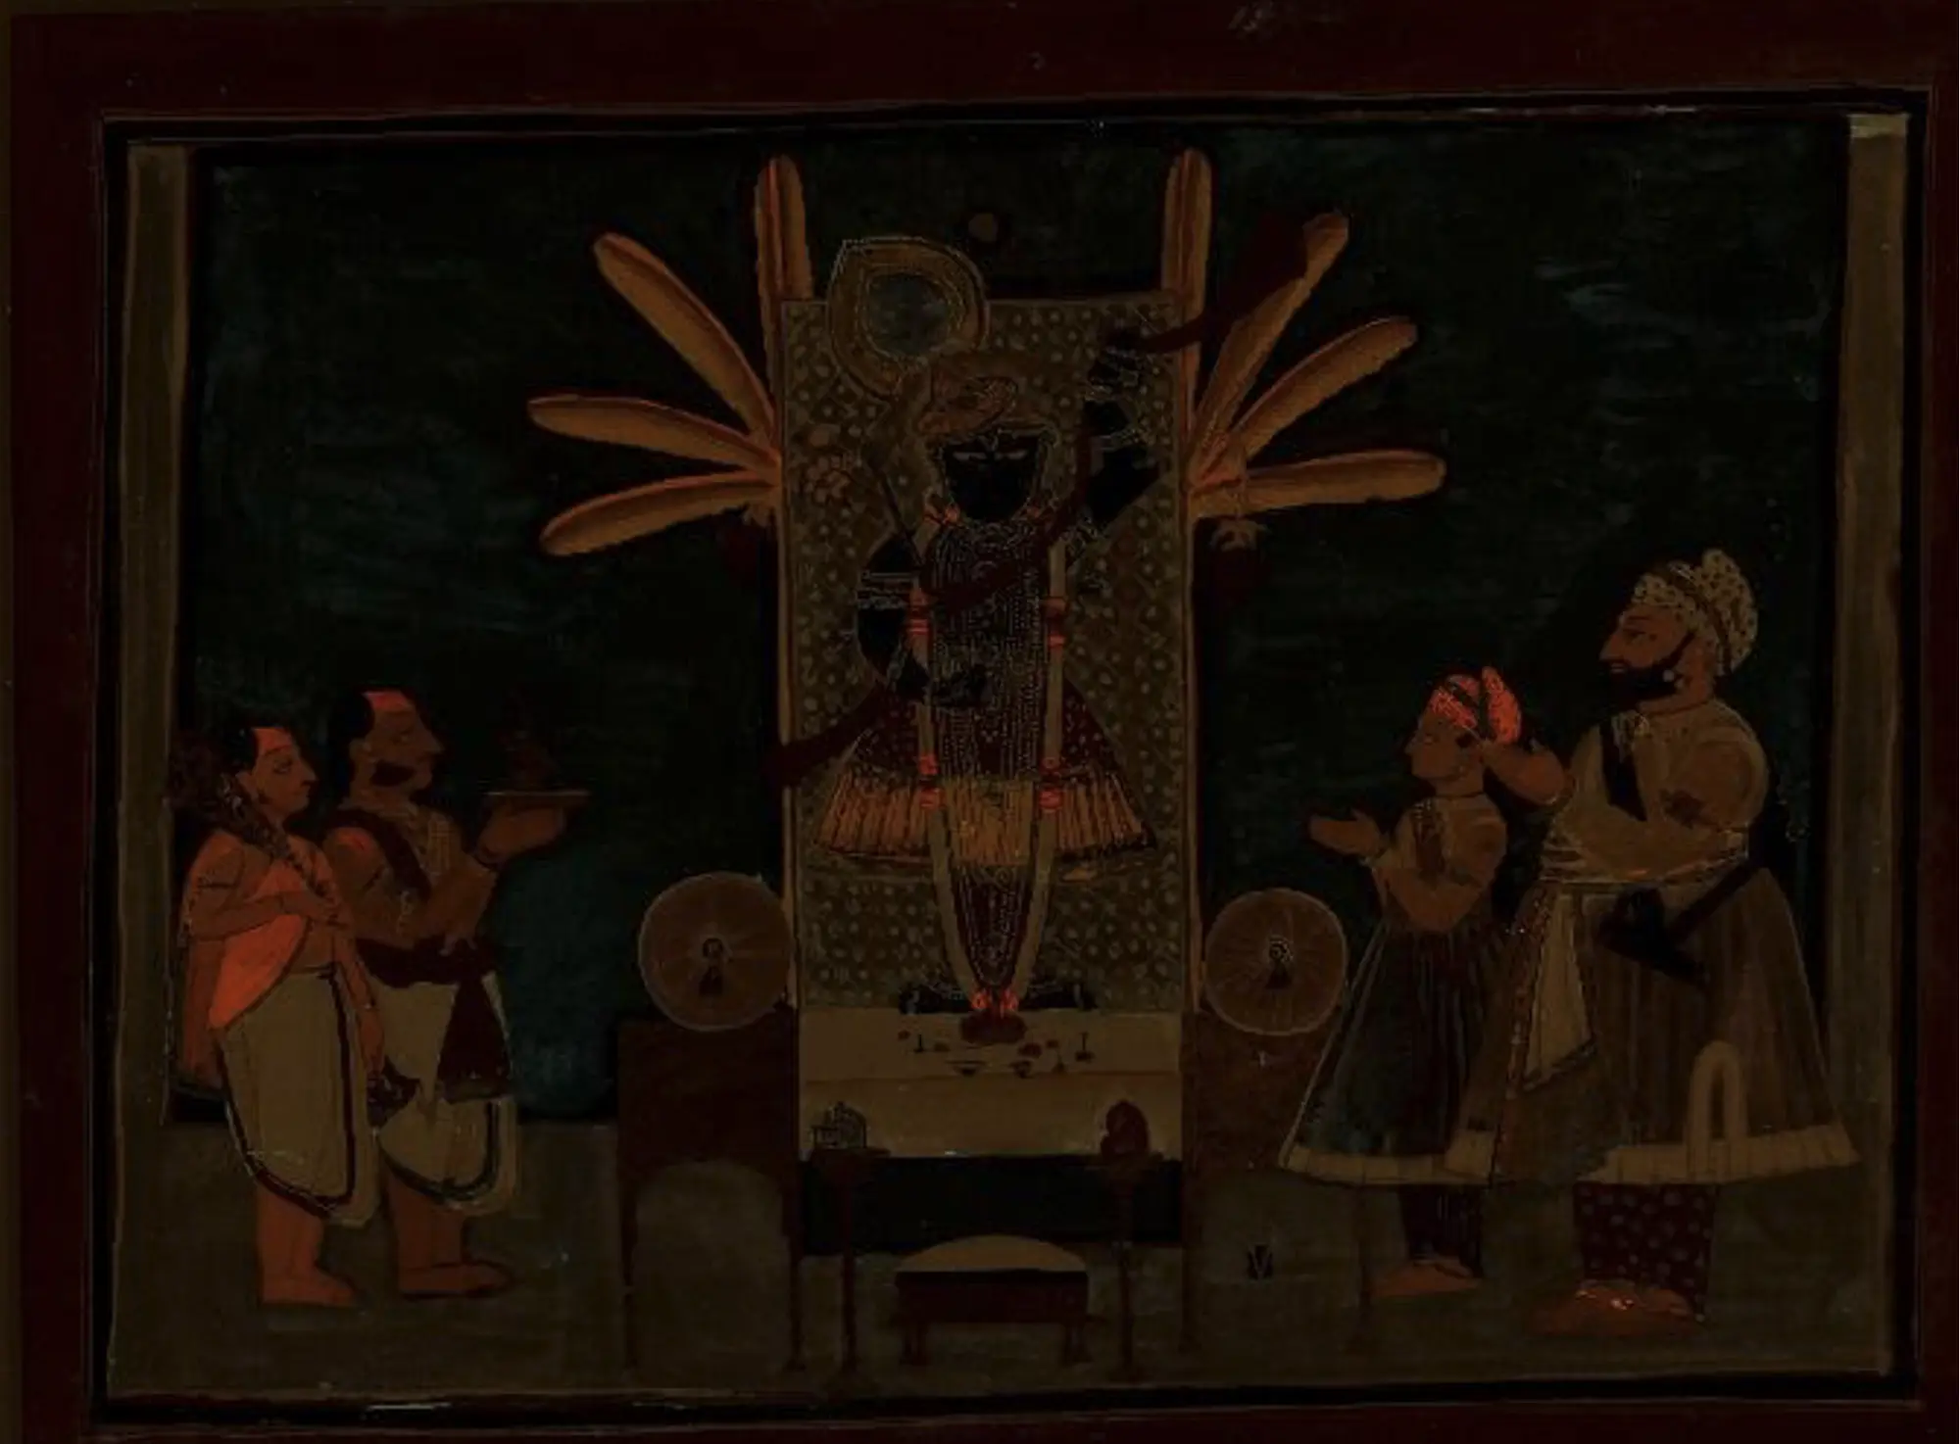
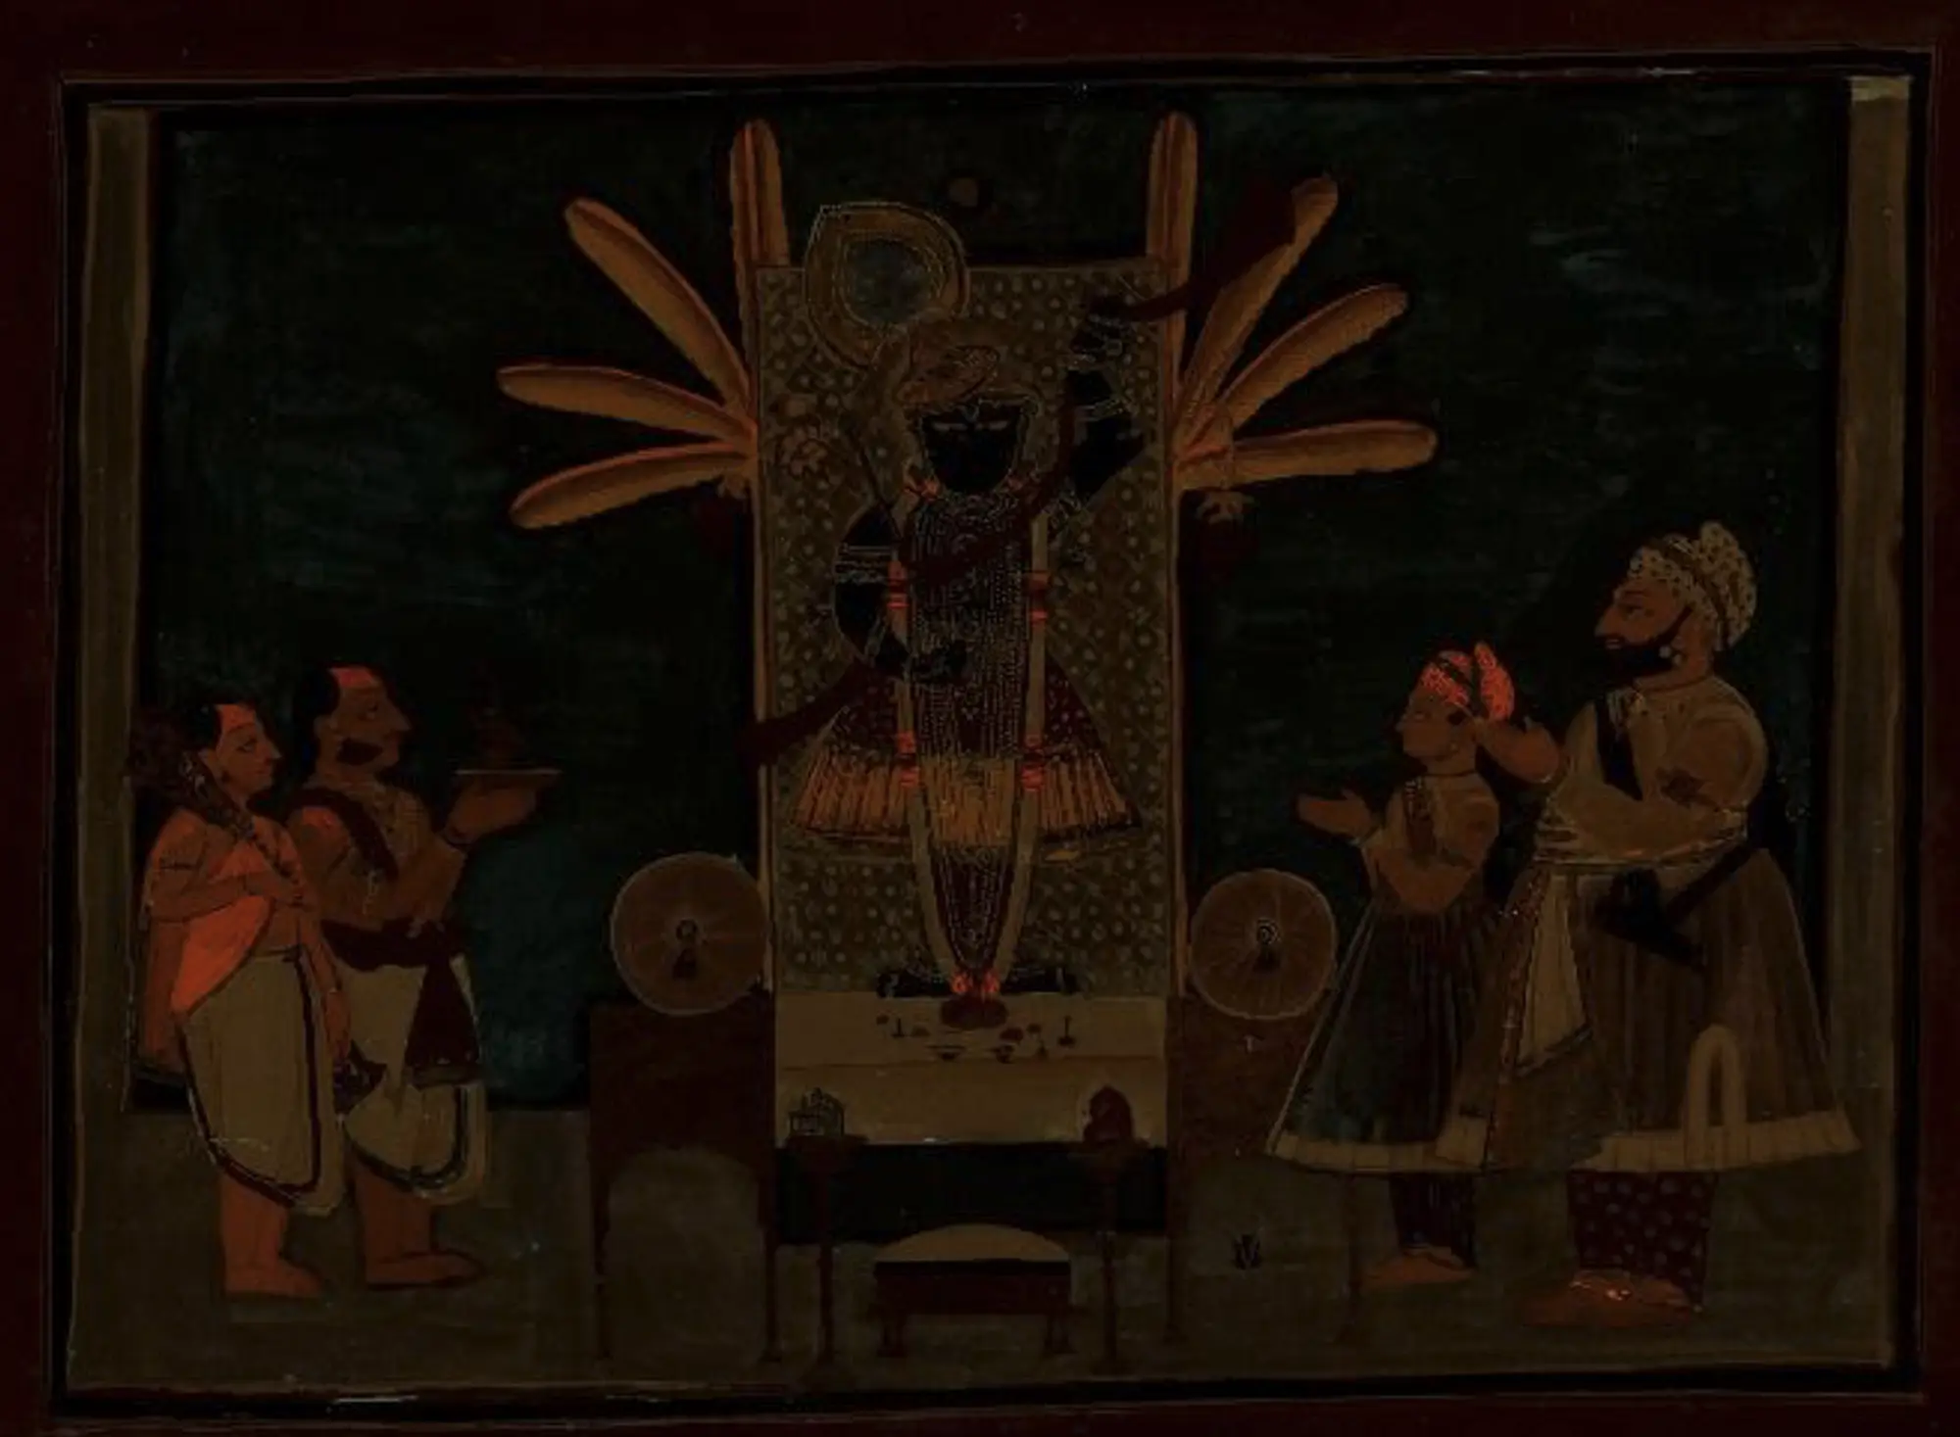
Chokha painting updates

diff --git a/src/pages/Museum/MuseumChokhaPigmentsUVL.vue b/src/pages/Museum/MuseumChokhaPigmentsUVL.vue
@@ -3,30 +3,35 @@
     <template #challenge-tab>
       <ChallengeCard>
         <template #top>
-          <InstructionHeader>Chokha Pigments Part 3: UVL</InstructionHeader>
+          <InstructionHeader
+            >Chokha Pigments Part 3: UV-induced Luminescence</InstructionHeader
+          >
           <InstructionRow rowType="Investigate">
-            <p>
-              Now imagine you wanted to know the composition of other blue
-              regions of interest in the painting, but you don't have time to
-              take spectra everywhere.
-            </p>
-            <p>
-              Conservators have the option of photographing the entire image
-              using different filters, for example, red, green, or blue, or even
-              infrared filters.
-            </p>
-            <p>
-              Based on the differences in the spectra of the two blue pigments
-              you observed, which filter would be most helpful for
-              distinguishing which of the two blue pigments were used in other
-              parts of the painting?
-            </p>
+            <template #steps>
+              <InstructionStep>
+                Use the
+                <span style="font-weight: 600">No filter/UVL</span> buttons to
+                toggle between the visible light image and an image showing
+                UV-induced luminescence (UVL) from pigments in the painting.
+              </InstructionStep>
+              <InstructionStep>
+                Identify a region of interest from Table 1 that is glowing in
+                the UVL image.
+              </InstructionStep>
+              <InstructionStep>
+                Use this
+                <BLink
+                  href="https://docs.google.com/document/d/12tWtxQ2-CibGcFYxlEbWjwgogqQr0MFKGtHnW1s0N7Y/edit?usp=sharing"
+                  target="_blank"
+                  rel="noopener"
+                  >data table</BLink
+                >
+                to identify a pigment of this color that creates UVL.
+              </InstructionStep>
+            </template>
           </InstructionRow>
           <InstructionRow rowType="Notebook">
-            <span class="needs-updating">
-              Write notebook questions - multiple choice - 440 (blue) and 905
-              (IR)
-            </span>
+            Use the information to complete the table in your notebook.
           </InstructionRow>
           <div class="mb-3">
             <BFormRadioGroup
@@ -43,30 +48,14 @@
           <img :src="imageUrl" class="d-block mb-2 challenge-image" />
         </template>
       </ChallengeCard>
-    </template>
-    <template #tool-col>
-      <ToolControlGroup :control-names="['units', 'plotType', 'normalize']">
-        <template #top-tool>
-          <ToolCard
-            :custom-metadata="customMetadata"
-            spectrum-picker-placeholder="Select Chokha ROI"
-          />
-        </template>
-        <template #bottom-tool>
-          <ToolCard
-            :custom-metadata="pigments"
-            spectrum-picker-placeholder="Select pigment"
-          />
-        </template>
-      </ToolControlGroup>
       <LeftRightGroup class="mt-5">
         <template #left>
-          <NextPrevButton to="uvl-intro" direction="prev" light>
+          <NextPrevButton to="uvl-intro" direction="prev" dark>
             part 2
           </NextPrevButton>
         </template>
         <template #right>
-          <NextPrevButton to="data-table" direction="next" light>
+          <NextPrevButton to="data-table" direction="next" dark>
             part 4
           </NextPrevButton>
         </template>
@@ -77,11 +66,10 @@
 
 <script setup lang="ts">
 import { useSpecLabHead } from '@/utils/locationUtils';
-import { useAllMetadata, useCustomMetadata } from '@/utils/metadataUtils';
+
 import { computed, ref } from 'vue';
-import chokhaChallenge from '@/assets/spectrum_data/Museum_Conservation/chokha_mystery_labels_910.webp';
+import chokhaChallenge from '@/assets/spectrum_data/Museum_Conservation/chokha_painting_labels_910.webp';
 import chokhaUVL from '@/assets/spectrum_data/Museum_Conservation/chokha_uvl_2000.webp';
-import mystery from '@/assets/spectrum_data/mystery@2x.png';
 
 useSpecLabHead('Chokha Pigments Part 3: UVL', 'Museum');
 
@@ -102,47 +90,6 @@ const imageUrl = computed(() => {
       return '';
   }
 });
-
-const chokhaR1 = useCustomMetadata(
-  'Painting Regions',
-  'S2018-1-76_VNIR-SWIR_colors_Red_1',
-  {
-    title: 'Mystery Pigment 1',
-    imageUrl: mystery,
-    bigImageUrl: '',
-  },
-);
-const chokhaB2 = useCustomMetadata(
-  'Painting Regions',
-  'S2018-1-76_VNIR-SWIR_colors_Blue_2',
-  {
-    title: 'Mystery Pigment 2',
-    imageUrl: mystery,
-    bigImageUrl: '',
-  },
-);
-const chokhaY1 = useCustomMetadata(
-  'Painting Regions',
-  'S2018-1-76_VNIR-SWIR_colors_Yellow_1',
-  {
-    title: 'Mystery Pigment 3',
-    imageUrl: mystery,
-    bigImageUrl: '',
-  },
-);
-const chokhaW1 = useCustomMetadata(
-  'Painting Regions',
-  'S2018-1-76_VNIR-SWIR_colors_White_1',
-  {
-    title: 'Mystery Pigment 4',
-    imageUrl: mystery,
-    bigImageUrl: '',
-  },
-);
-const customMetadataMaybe = [chokhaR1, chokhaB2, chokhaY1, chokhaW1];
-const customMetadata = customMetadataMaybe.filter((sm) => !!sm);
-const allMetadata = useAllMetadata();
-const pigments = allMetadata['Paint Pigments'];
 </script>
 
 <style>

diff --git a/src/pages/Museum/MuseumChokhaPigmentsSpectra.vue b/src/pages/Museum/MuseumChokhaPigmentsSpectra.vue
@@ -6,39 +6,33 @@
           <InstructionHeader>
             Chokha Pigments Part 1: Spectra
           </InstructionHeader>
-          <InstructionRow rowType="Art">
-            Art conservators have taken reflection spectra of different regions
-            of interest, marked by the white and black squares. The wavelengths
-            of light that are reflected by the paint in the visible part of the
-            spectrum determines what color our eyes see.
-          </InstructionRow>
           <InstructionRow rowType="Tool">
-            View each "mystery pigment" spectrum and see if you can identify
-            what color and region of interest it corresponds to in the painting.
+            Compare the spectra of some of the regions of interest (ROI) with
+            comparison pigments to see if you can identify them.
             <template #steps>
               <InstructionStep>
-                Use the
-                <span style="font-weight: 600">Select mystery pigment</span>
-                dropdown menu to view each spectrum.
+                Under <span style="font-weight: 600">Source 1</span>, use the
+                <span style="font-weight: 600">Select Chokha ROI</span>
+                dropdown menu to view a spectrum for each region of interest.
               </InstructionStep>
               <InstructionStep>
-                Under <span style="font-weight: 600">Normalize?</span>, click
-                <span style="font-weight: 600">Visible</span>.
-              </InstructionStep>
-              <InstructionStep>
-                Use what you learned about how light colors mix (Modules 1 & 3)
-                to identify what color corresponds to each spectrum.
+                Under <span style="font-weight: 600">Source 2</span>, use the
+                <span style="font-weight: 600">Select pigment</span> dropdown
+                menu to view a spectrum for different pigments of each color.
               </InstructionStep>
             </template>
           </InstructionRow>
           <InstructionRow rowType="Notebook">
-            Draw a line from each spectrum to the corresponding region of
-            interest on the painting.
-          </InstructionRow>
-          <InstructionRow rowType="Simulation">
-            If you'd like a refresher on how light colors mix, double-click the
-            "RGB Bulbs" to launch the
-            <span style="font-weight: 600">Color Mixing</span> simulation.
+            <template #steps>
+              <InstructionStep>
+                For each ROI, write the pigment names in your notebook table.
+              </InstructionStep>
+              <InstructionStep>
+                Some pigments may be easier to identify from their spectra than
+                others. Use the last column to note the ROIs where you have
+                confidence in your pigment identification
+              </InstructionStep>
+            </template>
           </InstructionRow>
         </template>
         <template #middle>
@@ -47,7 +41,9 @@
       </ChallengeCard>
     </template>
     <template #tool-col>
-      <ToolControlGroup :control-names="['units', 'plotType', 'normalize']">
+      <ToolControlGroup
+        :control-names="['units', 'plotType', 'normalize', 'zoom']"
+      >
         <template #top-tool>
           <ToolCard
             :custom-metadata="customMetadata"
@@ -79,27 +75,18 @@
 
 <script setup lang="ts">
 import { useAllMetadata, useCustomMetadata } from '@/utils/metadataUtils';
-import chokhaChallenge from '@/assets/spectrum_data/Museum_Conservation/chokha_mystery_labels_910.webp';
-import chokhaBig from '@/assets/spectrum_data/Museum_Conservation/chokha_mystery_labels_big.webp';
+import chokhaChallenge from '@/assets/spectrum_data/Museum_Conservation/chokha_painting_labels_910.webp';
+import chokhaBig from '@/assets/spectrum_data/Museum_Conservation/chokha_painting_labels_big.webp';
 import { useSpecLabHead } from '@/utils/locationUtils';
 import mystery from '@/assets/spectrum_data/mystery@2x.png';
 
 useSpecLabHead('Chokha Pigments Part 1: Spectra', 'Museum');
 
-const chokhaR1 = useCustomMetadata(
+const chokhaB1 = useCustomMetadata(
   'Painting Regions',
-  'S2018-1-76_VNIR-SWIR_colors_Red_1',
+  'S2018-1-76_VNIR-SWIR_colors_Blue_1',
   {
-    title: 'Mystery Pigment 1',
-    imageUrl: mystery,
-    bigImageUrl: '',
-  },
-);
-const chokhaB2 = useCustomMetadata(
-  'Painting Regions',
-  'S2018-1-76_VNIR-SWIR_colors_Blue_2',
-  {
-    title: 'Mystery Pigment 2',
+    title: 'ROI B1',
     imageUrl: mystery,
     bigImageUrl: '',
   },
@@ -108,7 +95,7 @@ const chokhaY1 = useCustomMetadata(
   'Painting Regions',
   'S2018-1-76_VNIR-SWIR_colors_Yellow_1',
   {
-    title: 'Mystery Pigment 3',
+    title: 'ROI Y1',
     imageUrl: mystery,
     bigImageUrl: '',
   },
@@ -117,12 +104,12 @@ const chokhaW1 = useCustomMetadata(
   'Painting Regions',
   'S2018-1-76_VNIR-SWIR_colors_White_1',
   {
-    title: 'Mystery Pigment 4',
+    title: 'ROI W1',
     imageUrl: mystery,
     bigImageUrl: '',
   },
 );
-const customMetadataMaybe = [chokhaR1, chokhaB2, chokhaY1, chokhaW1];
+const customMetadataMaybe = [chokhaW1, chokhaB1, chokhaY1];
 const customMetadata = customMetadataMaybe.filter((sm) => !!sm);
 const allMetadata = useAllMetadata();
 const pigments = allMetadata['Paint Pigments'];

diff --git a/src/pages/Museum/MuseumChokhaPigmentsUVIntro.vue b/src/pages/Museum/MuseumChokhaPigmentsUVIntro.vue
@@ -4,28 +4,19 @@
       <ChallengeCard>
         <template #top>
           <InstructionHeader
-            >Chokha Pigments Part 2: UVL Intro</InstructionHeader
+            >Chokha Pigments Part 2: UV Imaging</InstructionHeader
           >
           <InstructionRow rowType="Intro">
-            Light, color, and spectra are important components of art
-            conservation work done at museums. By investigating how paint
-            pigments reflect light at different wavelengths, art conservators
-            can learn what materials are used in a painting and make decisions
-            about how to best care for and restore the artwork.
+            Sometimes a spectrum alone does not allow scientists to identify a
+            pigment with absolute certainty. Other techniques can be used to
+            provide additional information, such as imaging techniques that use
+            ultraviolet (UV) light.
           </InstructionRow>
           <InstructionRow rowType="Video">
-            Watch this video that shows how imaging scientist Keats Webb and
-            conservation scientist Matthew Clarke use light, color, and spectra
-            to better understand paintings at the Smithsonian Institution.
-          </InstructionRow>
-          <InstructionRow rowType="Notebook">
-            Answer this question after watching the video:
-            <template #steps>
-              <InstructionStep>
-                What can conservation scientists learn about a painting from
-                knowing what pigments were used in it?
-              </InstructionStep>
-            </template>
+            See Dr. Webb demonstrate how an ultraviolet light and filter can
+            capture how pigments absorb and reflect UV light, and how some
+            pigments cause UV-induced fluorescence (UVL), where pigments absorb
+            UV light and then emit visible light.
           </InstructionRow>
         </template>
         <template #middle>

diff --git a/src/pages/Museum/MuseumChokhaPigmentsDataTable.vue b/src/pages/Museum/MuseumChokhaPigmentsDataTable.vue
@@ -3,25 +3,25 @@
     <template #challenge-tab>
       <ChallengeCard>
         <InstructionHeader>
-          Chokha Pigments Part 4: Data Table
+          Chokha Pigments Part 4: Time Period and Region
         </InstructionHeader>
         <InstructionRow row-type="Investigate">
-          Use the data charts provided to learn about the available plants,
-          coral, and fish and decide which you would like in your fishtank.
+          Use the data chart provided to learn about the properties of some
+          paint pigments, and where and when they have been used.
           <template #before-steps>
             <p>
               <BLink
-                href="https://waps.cfa.harvard.edu/microobservatory/spectrum/large_files/Fish%20Tank%20Project%20Data%20Charts.pdf"
+                href="https://docs.google.com/document/d/12tWtxQ2-CibGcFYxlEbWjwgogqQr0MFKGtHnW1s0N7Y/edit?usp=sharing"
                 target="_blank"
                 rel="noopener"
               >
-                Fish Tank Project Data Charts
+                Pigment Data Table
               </BLink>
             </p>
           </template>
         </InstructionRow>
         <InstructionRow row-type="Notebook">
-          Complete the table with your selections.
+          Complete the table with your information.
         </InstructionRow>
         <LeftRightGroup class="mt-5">
           <template #left>

diff --git a/src/main.ts b/src/main.ts
@@ -81,7 +81,7 @@ import MuseumDesignMuseumDisplay from './pages/Museum/MuseumDesignMuseumDisplay.
 import MuseumChokhaObserve from './pages/Museum/MuseumChokhaObserve.vue';
 import MuseumChokhaIDColors from './pages/Museum/MuseumChokhaIDColors.vue';
 import MuseumChokhaPigmentsSpectra from './pages/Museum/MuseumChokhaPigmentsSpectra.vue';
-import MuseumChokhaPigmentsUVLIntro from './pages/Museum/MuseumChokhaPigmentsUVLIntro.vue';
+import MuseumChokhaPigmentsUVIntro from './pages/Museum/MuseumChokhaPigmentsUVIntro.vue';
 import MuseumChokhaPigmentsUVL from './pages/Museum/MuseumChokhaPigmentsUVL.vue';
 import MuseumChokhaPigmentsDataTable from './pages/Museum/MuseumChokhaPigmentsDataTable.vue';
 import MuseumHokusaiPigmentsSpectra from './pages/Museum/MuseumHokusaiPigmentsSpectra.vue';
@@ -290,7 +290,7 @@ const routes: RouteRecordRaw[] = [
             redirect: '/final-projects/museum/chokha-pigments/spectra',
             children: [
               { path: 'spectra', component: MuseumChokhaPigmentsSpectra },
-              { path: 'uvl-intro', component: MuseumChokhaPigmentsUVLIntro },
+              { path: 'uvl-intro', component: MuseumChokhaPigmentsUVIntro },
               { path: 'uvl', component: MuseumChokhaPigmentsUVL },
               { path: 'data-table', component: MuseumChokhaPigmentsDataTable },
             ],

diff --git a/src/pages/Museum/MuseumIntro.vue b/src/pages/Museum/MuseumIntro.vue
@@ -17,8 +17,12 @@
             to better understand paintings at the Smithsonian Institution.
           </InstructionRow>
           <InstructionRow rowType="Notebook">
-            Answer this question after watching the video:
+            Answer these questions after watching the video:
             <template #steps>
+              <InstructionStep>
+                Describe 2 techniques that allow conservation scientists to
+                determine what pigments were used in a painting.
+              </InstructionStep>
               <InstructionStep>
                 What can conservation scientists learn about a painting from
                 knowing what pigments were used in it?

diff --git a/src/pages/Museum/MuseumChokhaObserve.vue b/src/pages/Museum/MuseumChokhaObserve.vue
@@ -11,9 +11,11 @@
             National Museum of Asian Art.
             <p>
               For a richer experience, follow this
-              <a
+              <BLink
                 href="https://iiif.si.edu/mirador/?manifest=https://ids.si.edu/ids/manifest/FS-RLS2018.3.17_001crop"
-                >link</a
+                target="_blank"
+                rel="noopener"
+                >link</BLink
               >, where you will find a high-resolution image of the painting.
               (The image will open in a new tab. Return to this tab when you are
               finished observing the painting.)
